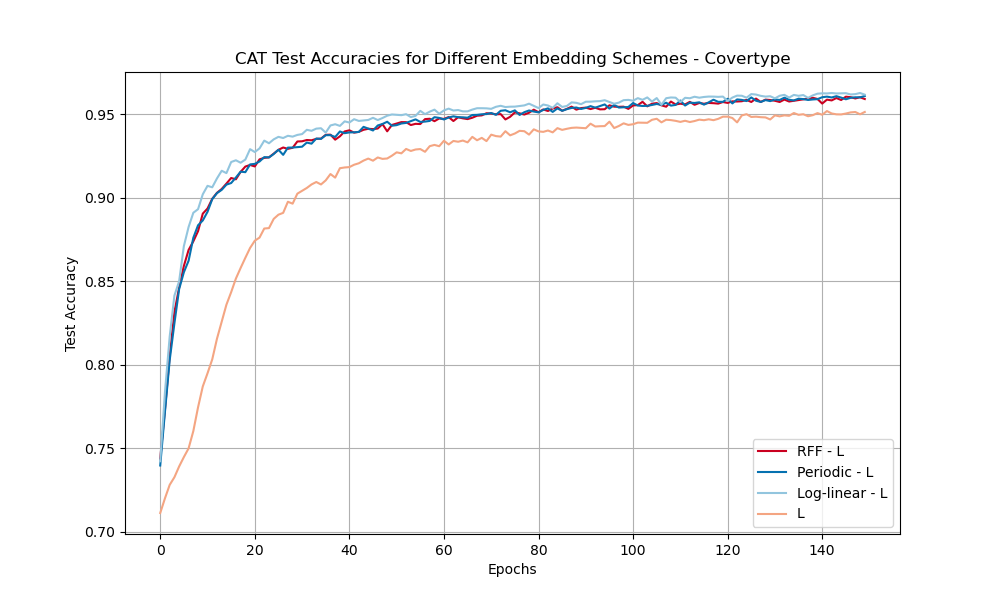
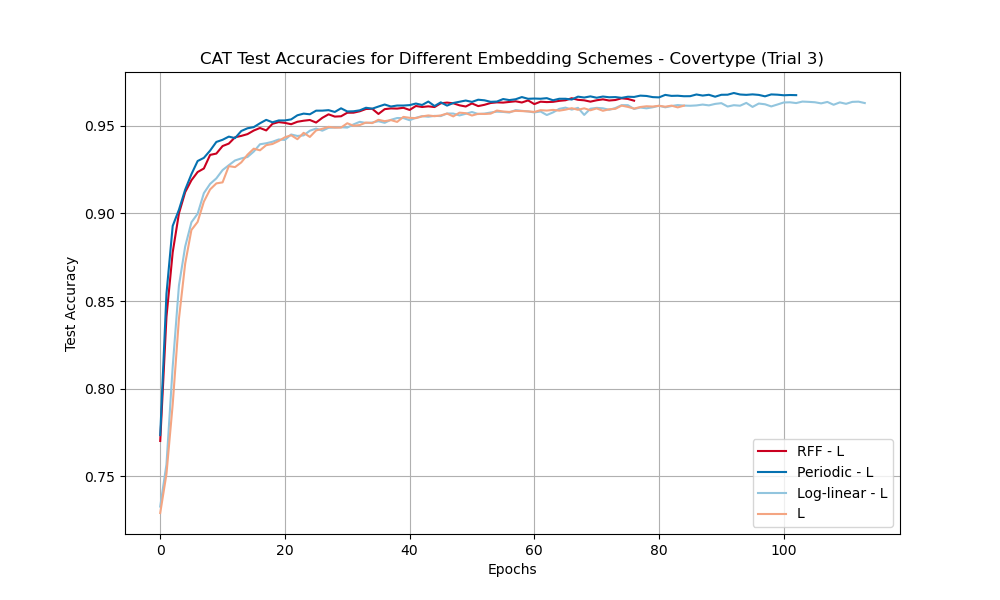
more plots

diff --git a/embed_experiments/EvaluationLog.py b/embed_experiments/EvaluationLog.py
@@ -53,81 +53,54 @@ class EvaluationLog:
         self.add_metric(model_name, embedding_technique, dataset_name, trial_number, metric_name, values)
 
 
-
 import matplotlib.pyplot as plt
 
 models = ["CAT", "FT"]
-embedding_techniques = ["ConstantPL", "PL", "Exp", "L"]
+embedding_techniques = ["ConstantPL", "PL", "ExpFF", "L"]
 new_labels = ["RFF - L", "Periodic - L", "Log-linear - L", "L"]
-metrics = ["Train Loss", "Test Loss", "Train Acc", "Test Acc"]
-# ieee_colors = ['#ca0020', '#0571b0', '#92c5de','#f4a582']
-ieee_colors = ['#a1dab4', '#2c7fb8', '#41b6c4','#253494']
+metrics = ["Train Loss", "Test Loss", "Train Acc", "Test Acc", "Train RMSE", "Test RMSE"]
+ieee_colors = ['#ca0020', '#0571b0', '#92c5de','#f4a582']
+# ieee_colors = ['#a1dab4', '#2c7fb8', '#41b6c4','#253494']
 
-def plot_two_accuracies(evaluation_log, model_name, dataset_name, embedding):
-    plt.figure(figsize=(10, 6))
-    for model in model_name:
-        test_acc = evaluation_log.get_metric_values(model, embedding, dataset_name, "Test Acc")
-        if test_acc:
-            plt.plot(range(len(test_acc)), test_acc, label=f"{model}")
-    plt.title(f"{model_name} Test Accuracies")
-    plt.xlabel("Epochs")
-    plt.ylabel("Test Accuracy")
-    plt.legend()
-    plt.grid(True)
-    plt.show()
-
-def plot_train_losses(evaluation_log, model_name, dataset_name):
-    plt.figure(figsize=(10, 6))
-    for embedding in embedding_techniques:
-        train_losses = evaluation_log.get_metric_values(model_name, embedding, dataset_name, "Train Loss")
-        if train_losses:
-            plt.plot(range(len(train_losses)), train_losses, label=f"{embedding}")
-    plt.title(f"{model_name} Train Losses for Different Embedding Schemes")
-    plt.xlabel("Epochs")
-    plt.ylabel("Train Loss")
-    plt.legend()
-    plt.grid(True)
-    plt.show()
-
-def plot_train_accuracies(evaluation_log, model_name, dataset_name):
-    plt.figure(figsize=(10, 6))
-    for embedding in embedding_techniques:
-        train_losses = evaluation_log.get_metric_values(model_name, embedding, dataset_name, "Train Acc")
-        if train_losses:
-            plt.plot(range(len(train_losses)), train_losses, label=f"{embedding}")
-    plt.title(f"{model_name} Train Accuracies for Different Embedding Schemes")
-    plt.xlabel("Epochs")
-    plt.ylabel("Train Accuracy")
-    plt.legend()
-    plt.grid(True)
-    plt.show()
-
-def plot_test_accuracies(evaluation_log, model_name, dataset_name):
+def plot_test_accuracies(evaluation_log, model_name, dataset_name, trial_number=0):
     plt.figure(figsize=(10, 6))
     for i, (embedding, name) in enumerate(zip(embedding_techniques, new_labels)):
-        train_losses = evaluation_log.get_metric_values(model_name, embedding, dataset_name, "Test Acc")
-        if train_losses:
-            plt.plot(range(len(train_losses)), train_losses, label=f"{name}", color=ieee_colors[i % len(ieee_colors)])
-    plt.title(f"{model_name} Test Accuracies for Different Embedding Schemes - {dataset_name}")
+        test_accuracies = evaluation_log.get_metric_values(model_name, embedding, dataset_name, trial_number, "Test Acc")
+        if test_accuracies:
+            plt.plot(range(len(test_accuracies)), test_accuracies, label=f"{name}", color=ieee_colors[i % len(ieee_colors)])
+    plt.title(f"{model_name} Test Accuracies for Different Embedding Schemes - {dataset_name} (Trial {trial_number + 1})")
     plt.xlabel("Epochs")
     plt.ylabel("Test Accuracy")
     plt.legend()
     plt.grid(True)
     plt.show()
 
+def plot_test_rmses(evaluation_log, model_name, dataset_name, trial_number=0):
+    plt.figure(figsize=(10, 6))
+    for i, (embedding, name) in enumerate(zip(embedding_techniques, new_labels)):
+        test_accuracies = evaluation_log.get_metric_values(model_name, embedding, dataset_name, trial_number, "Test RMSE")
+        if test_accuracies:
+            plt.plot(range(len(test_accuracies)), test_accuracies, label=f"{name}", color=ieee_colors[i % len(ieee_colors)])
+    plt.title(f"{model_name} Test RMSE for Different Embedding Schemes - {dataset_name} (Trial {trial_number + 1})")
+    plt.xlabel("Epochs")
+    plt.ylabel("Test RMSE")
+    plt.legend()
+    plt.grid(True)
+    plt.show()
 
-def plot_loss(evaluation_log, model_name, dataset_name):
+def plot_loss(evaluation_log, model_name, dataset_name, trial_number=0):
     plt.figure(figsize=(12, 8))
     
     for i, (embedding, name) in enumerate(zip(embedding_techniques, new_labels)):
-        train_losses = evaluation_log.get_metric_values(model_name, embedding, dataset_name, "Train Loss")
-        test_losses = evaluation_log.get_metric_values(model_name, embedding, dataset_name, "Test Loss")
+        train_losses = evaluation_log.get_metric_values(model_name, embedding, dataset_name, trial_number, "Train Loss")
+        test_losses = evaluation_log.get_metric_values(model_name, embedding, dataset_name, trial_number, "Test Loss")
         
         if train_losses:
             plt.plot(range(len(train_losses)), train_losses, label=f"{name} - Train", color=ieee_colors[i % len(ieee_colors)], linewidth=2)
-            plt.plot(range(len(test_losses)), test_losses, label=f"{name} - Test", color=ieee_colors[i % len(ieee_colors)], linestyle='dotted', linewidth=2)
+            if test_losses:
+                plt.plot(range(len(test_losses)), test_losses, label=f"{name} - Test", color=ieee_colors[i % len(ieee_colors)], linestyle='dotted', linewidth=2)
 
-    plt.title(f"{model_name} Train and Test Losses for Different Embedding Schemes - {dataset_name}")
+    plt.title(f"{model_name} Train and Test Losses for Different Embedding Schemes - {dataset_name} (Trial {trial_number + 1})")
     plt.xlabel("Epochs")
     plt.ylabel("Loss")
     plt.legend()

diff --git a/embed_experiments/to_csv.py b/embed_experiments/to_csv.py
@@ -2,6 +2,7 @@ from EvaluationLog import EvaluationLog
 import torch
 import pandas as pd
 import pickle
+import numpy as np
 
 # import sys
 # # sys.path.insert(0, '/home/wdwatson2/projects/CAT-Transformer/model')
@@ -14,49 +15,47 @@ print(device_in_use)
 with open(r'C:\Users\smbm2\projects\CAT-Transformer\embed_experiments\evaluation_log.pkl', 'rb') as file:
     evaluation_log = pickle.load(file)
 
-# Create an empty DataFrame
-columns = ['Model', 'Embedding Technique', 'Dataset', 'Mean Test Acc', 'Std Test Acc', 'Mean Test RMSE', 'Std Test RMSE']
-result_df = pd.DataFrame(columns=columns)
+def convert_to_dataframe(evaluation_log):
+    data = []
 
-# Iterate over the data in your EvaluationLog
-for model_name in evaluation_log.log:
-    for embedding_technique in evaluation_log.log[model_name]:
-        for dataset_name in evaluation_log.log[model_name][embedding_technique]:
-            trial_numbers = list(evaluation_log.log[model_name][embedding_technique][dataset_name].keys())
+    for model_name, model_data in evaluation_log.log.items():
+        for embedding_technique, embedding_data in model_data.items():
+            for dataset_name, dataset_data in embedding_data.items():
+                acc_values = []
+                rmse_values = []
 
-            # Calculate mean and std for Test Acc
-            test_acc_values = []
-            for trial_number in trial_numbers:
-                values = evaluation_log.get_metric_values(model_name, embedding_technique, dataset_name, trial_number, 'Test Acc')[-1]
-                if values:
-                    test_acc_values.append(values)
-            
-            mean_test_acc = pd.Series(test_acc_values).mean()
-            std_test_acc = pd.Series(test_acc_values).std()
+                for trial_number, trial_data in dataset_data.items():
+                    trial_acc_values = evaluation_log.get_metric_values(model_name, embedding_technique, dataset_name, trial_number, 'Test Acc')
+                    trial_rmse_values = evaluation_log.get_metric_values(model_name, embedding_technique, dataset_name, trial_number, 'Test RMSE')
 
-            # Calculate mean and std for Test RMSE
-            test_rmse_values = []
-            for trial_number in trial_numbers:
-                values = evaluation_log.get_metric_values(model_name, embedding_technique, dataset_name, trial_number, 'Test RMSE')[-1]
-                if values:
-                    test_rmse_values.append(values)
-            
-            mean_test_rmse = pd.Series(test_rmse_values).mean()
-            std_test_rmse = pd.Series(test_rmse_values).std()
+                    # Use the last value of each acc and rmse list
+                    acc_value = trial_acc_values[-1] if trial_acc_values[-1] is not None else np.nan
+                    rmse_value = trial_rmse_values[-1] if trial_rmse_values[-1] is not None else np.nan
 
-            # Append the results to the DataFrame
-            result_df = result_df.append({
-                'Model': model_name,
-                'Embedding Technique': embedding_technique,
-                'Dataset': dataset_name,
-                'Mean Test Acc': mean_test_acc,
-                'Std Test Acc': std_test_acc,
-                'Mean Test RMSE': mean_test_rmse,
-                'Std Test RMSE': std_test_rmse
-            }, ignore_index=True)
+                    acc_values.append(acc_value)
+                    rmse_values.append(rmse_value)
+
+                print(f"{model_name}, {embedding_technique}, {dataset_name}: acc_values={acc_values}, rmse_values={rmse_values}")
+
+                # Check if the lists are not empty before calculating the mean
+                mean_acc = np.mean(acc_values) if acc_values else np.nan
+                mean_rmse = np.mean(rmse_values) if rmse_values else np.nan
+
+                data.append({
+                    'Model': model_name,
+                    'Embedding Technique': embedding_technique,
+                    'Dataset': dataset_name,
+                    'Mean Test Acc': mean_acc,
+                    'Mean Test RMSE': mean_rmse
+                })
+
+    df = pd.DataFrame(data)
+    return df
+
+df = convert_to_dataframe(evaluation_log)
 
 
-result_df.to_csv(r'C:\Users\smbm2\projects\CAT-Transformer\embed_experiments\results.csv', index=False)
+df.to_csv(r'C:\Users\smbm2\projects\CAT-Transformer\embed_experiments\results.csv', index=False)
 
 
 

diff --git a/embed_experiments/plotting.py b/embed_experiments/plotting.py
@@ -1,5 +1,5 @@
 import matplotlib.pyplot as plt
-from EvaluationLog import EvaluationLog, plot_train_losses, plot_train_accuracies, plot_test_accuracies, plot_two_accuracies, plot_loss
+from EvaluationLog import EvaluationLog, plot_test_accuracies, plot_loss, plot_test_rmses
 import pickle
 
 # Load the object
@@ -12,28 +12,17 @@ with open(r'C:\Users\smbm2\projects\CAT-Transformer\embed_experiments\evaluation
 # dataset = 'Higgs'
 
 models = ["CAT", "FT"]
-embedding_techniques = ["ConstantPL", "PL", "Exp", "L"]
+embedding_techniques = ["ConstantPL", "PL", "ExpFF", "L"]
 metrics = ["Train Loss", "Test Loss", "Train Acc", "Test Acc"]
 datasets = ['Helena', 'Higgs', 'Income', 'California', 'Covertype']
 
-for dataset in datasets:
-    plot_loss(evaluation_log, "CAT", dataset)
-
-# plot_two_accuracies(evaluation_log, models, dataset, "ConstantPL")
-
-# # Plot train losses for each model
-# for model in models:
-#     plot_train_losses(evaluation_log, model, dataset)
-
-# # Plot train losses for each model
-# for model in models:
-#     plot_train_accuracies(evaluation_log, model,dataset)
-
-# # Plot train losses for each model
-# for model in models:
-#     plot_test_losses(evaluation_log, model,dataset)
-
-# Plot train losses for each model
+trial_num = 2
 
 for dataset in datasets:
-    plot_test_accuracies(evaluation_log, "CAT",dataset)
+    plot_loss(evaluation_log, "CAT", dataset, trial_num)
+
+for dataset in datasets:
+    plot_test_accuracies(evaluation_log, "CAT",dataset, trial_num)
+
+for dataset in datasets:
+    plot_test_rmses(evaluation_log, "CAT",dataset, trial_num)
